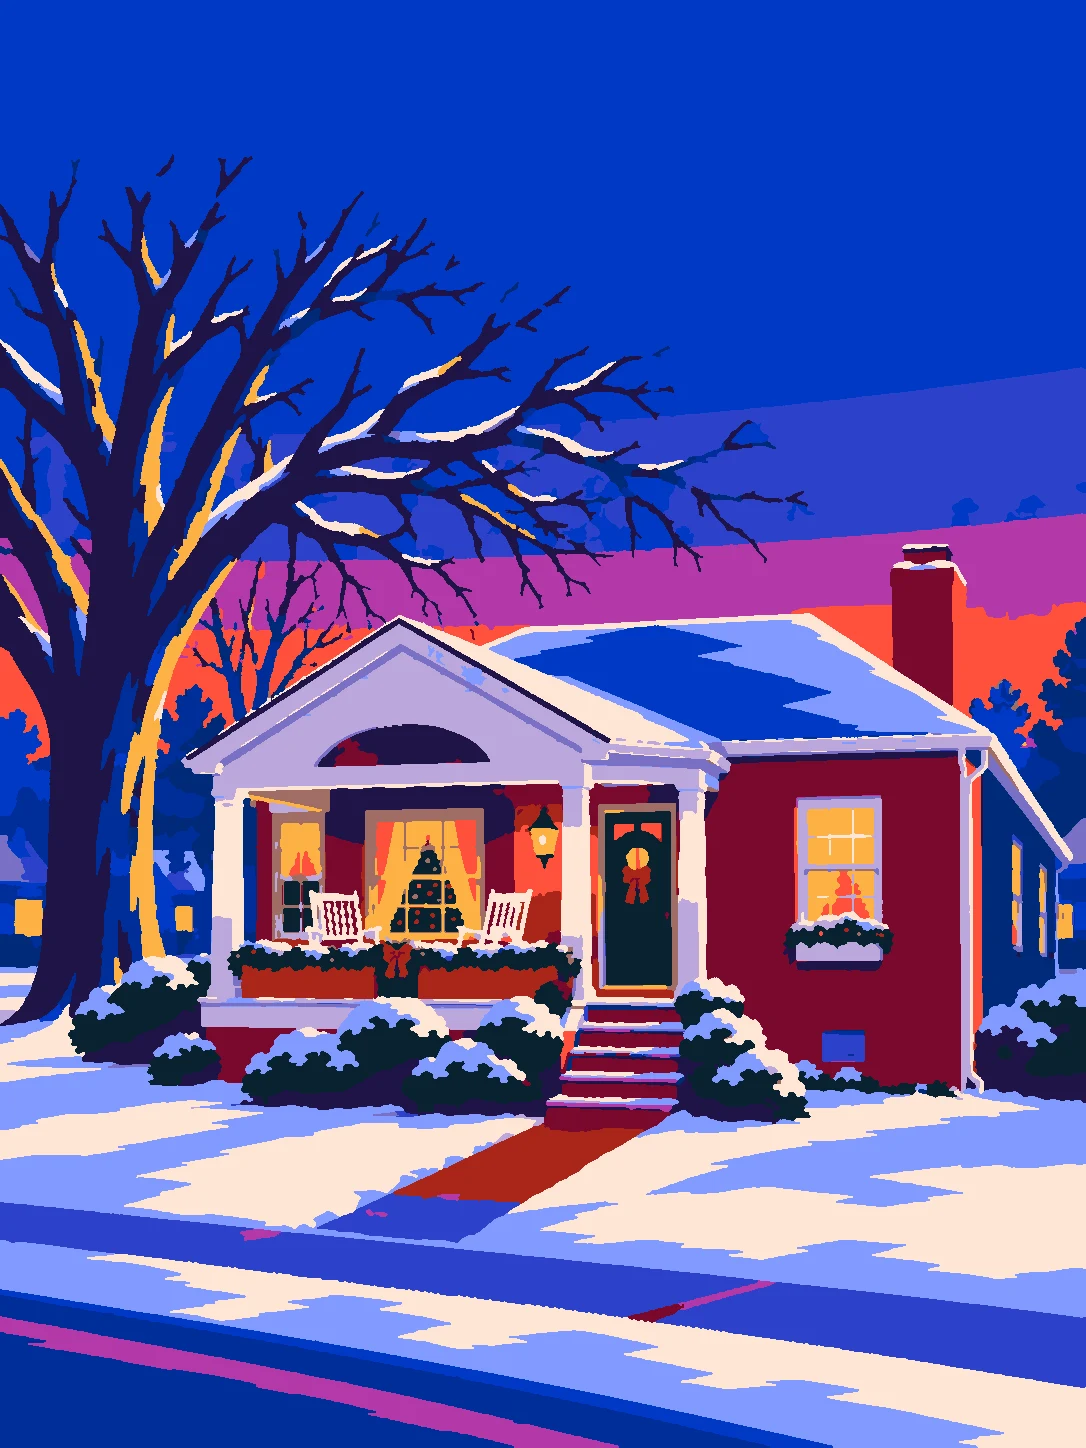
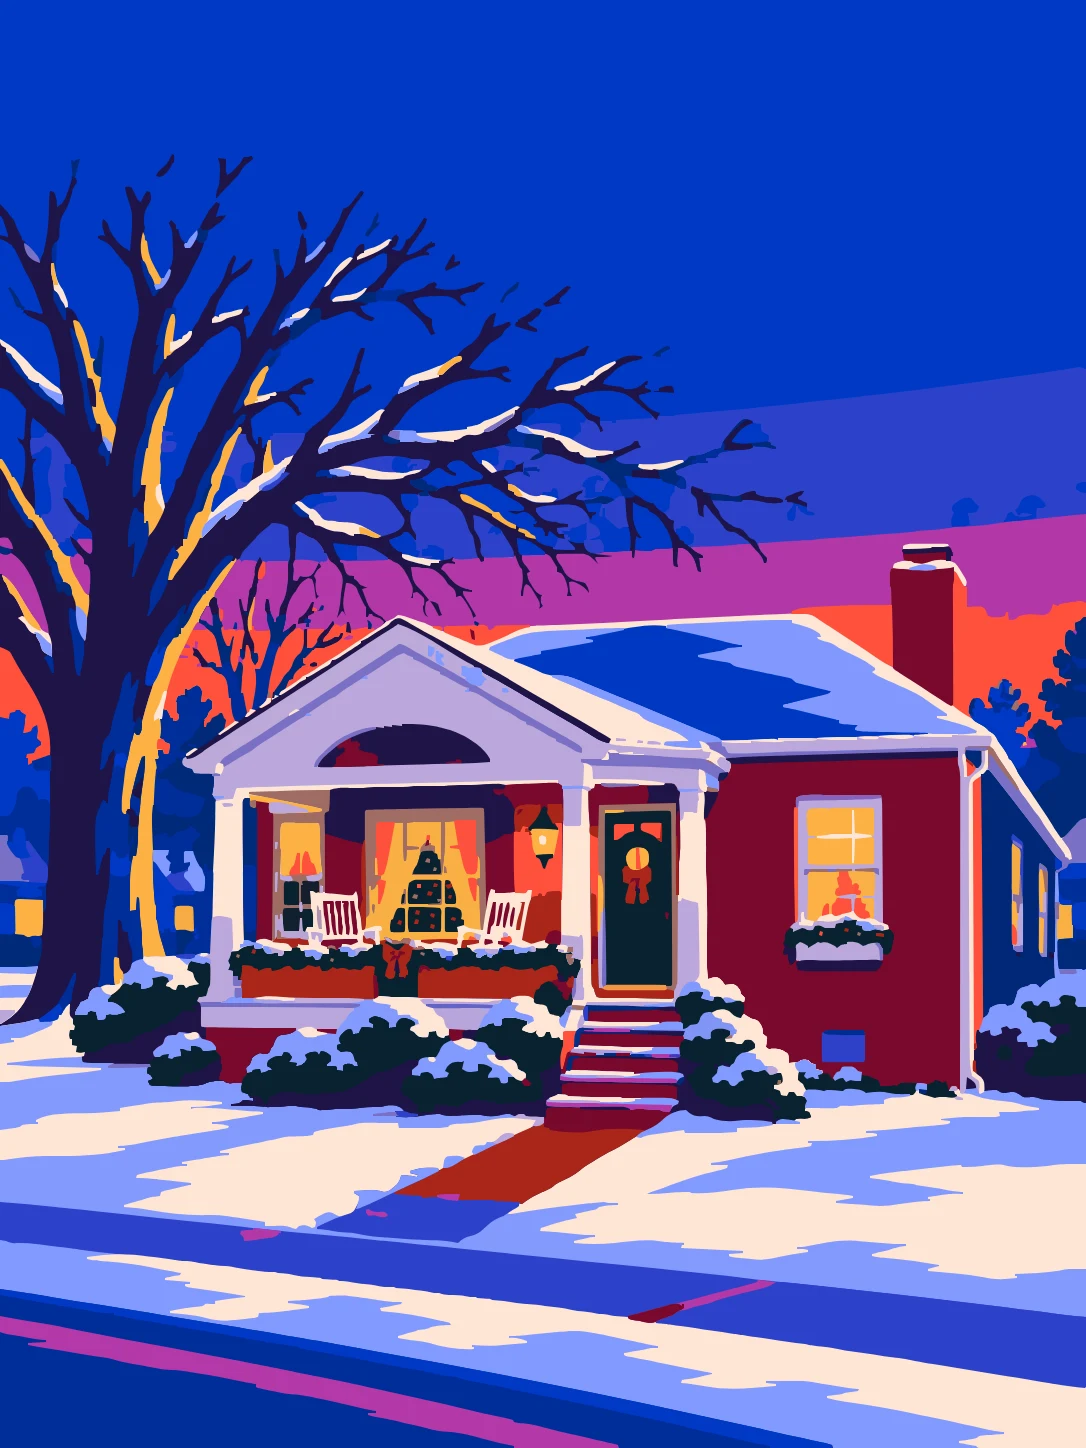
Sharpen the house print: traced edges, extra-sharp sizes
Each ink layer was traced into vector shapes, so edges are clean cuts
instead of pixel wobble. Adds 2x sizes for high-res screens.

Claude-Session: https://claude.ai/code/session_01XGi8FoeFiKqXRjC8WnxF1M

diff --git a/src/features/home/HomePage.tsx b/src/features/home/HomePage.tsx
@@ -6,8 +6,10 @@ import { SiteHeader } from '../../shared/SiteHeader'
 import { SnowGlobe } from '../../shared/SnowGlobe'
 import housePrintSmall from './house-print-768.webp'
 import housePrintLarge from './house-print-1536.webp'
+import housePrintSharp from './house-print-3072.webp'
 import housePrintTallSmall from './house-print-tall-543.webp'
 import housePrintTallLarge from './house-print-tall-1086.webp'
+import housePrintTallSharp from './house-print-tall-1629.webp'
 import { NightSky } from './NightSky'
 import styles from './Home.module.css'
 
@@ -47,11 +49,11 @@ export function HomePage({ route }: { route: Route }) {
           </div>
           {/* Phones get a tall version of the same print, which fits a narrow screen. */}
           <picture>
-            <source media="(max-width: 640px)" srcSet={`${housePrintTallSmall} 543w, ${housePrintTallLarge} 1086w`} sizes="100vw" />
+            <source media="(max-width: 640px)" srcSet={`${housePrintTallSmall} 543w, ${housePrintTallLarge} 1086w, ${housePrintTallSharp} 1629w`} sizes="100vw" />
             <img
               className={styles.printImage}
               src={housePrintLarge}
-              srcSet={`${housePrintSmall} 768w, ${housePrintLarge} 1536w`}
+              srcSet={`${housePrintSmall} 768w, ${housePrintLarge} 1536w, ${housePrintSharp} 3072w`}
               sizes="100vw"
               width={1536}
               height={1024}

diff --git a/docs/DECISIONS.md b/docs/DECISIONS.md
@@ -62,4 +62,4 @@ Newest at the bottom. Each entry: what we decided, and why.
 
 **2026-10-28: One button on Home: "Add to my list".** "See my list" went to the same page, and two buttons that do the same thing confuse more than they help. "My list" is still in the top bar.
 
-**2026-10-28: Home is a screen print of the house.** Replaces the night sky and sleigh (still available behind the `housePrint` flag). The style is inspired by a printmaker the family loves: flat inks, hard edges, colored shadows. ChatGPT drew the house from street photos and the prints (hand-written SVG couldn't get close); a local script then reduced it to 16 flat inks and tapered the oak's branches so the sky meets the headline cleanly. Phones get a tall version, wide screens a landscape one, both in the same inks. The headline sits on the picture's own sky. The house picture is fine in this public repo because it has no house number, signs or street names.
+**2026-10-28: Home is a screen print of the house.** Replaces the night sky and sleigh (still available behind the `housePrint` flag). The style is inspired by a printmaker the family loves: flat inks, hard edges, colored shadows. ChatGPT drew the house from street photos and the prints (hand-written SVG couldn't get close); a local script then reduced it to 16 flat inks, tapered the oak's branches so the sky meets the headline cleanly, and traced every ink into vector shapes for crisp, stencil-like edges. Phones get a tall version, wide screens a landscape one, both in the same inks. The headline sits on the picture's own sky. The house picture is fine in this public repo because it has no house number, signs or street names.
